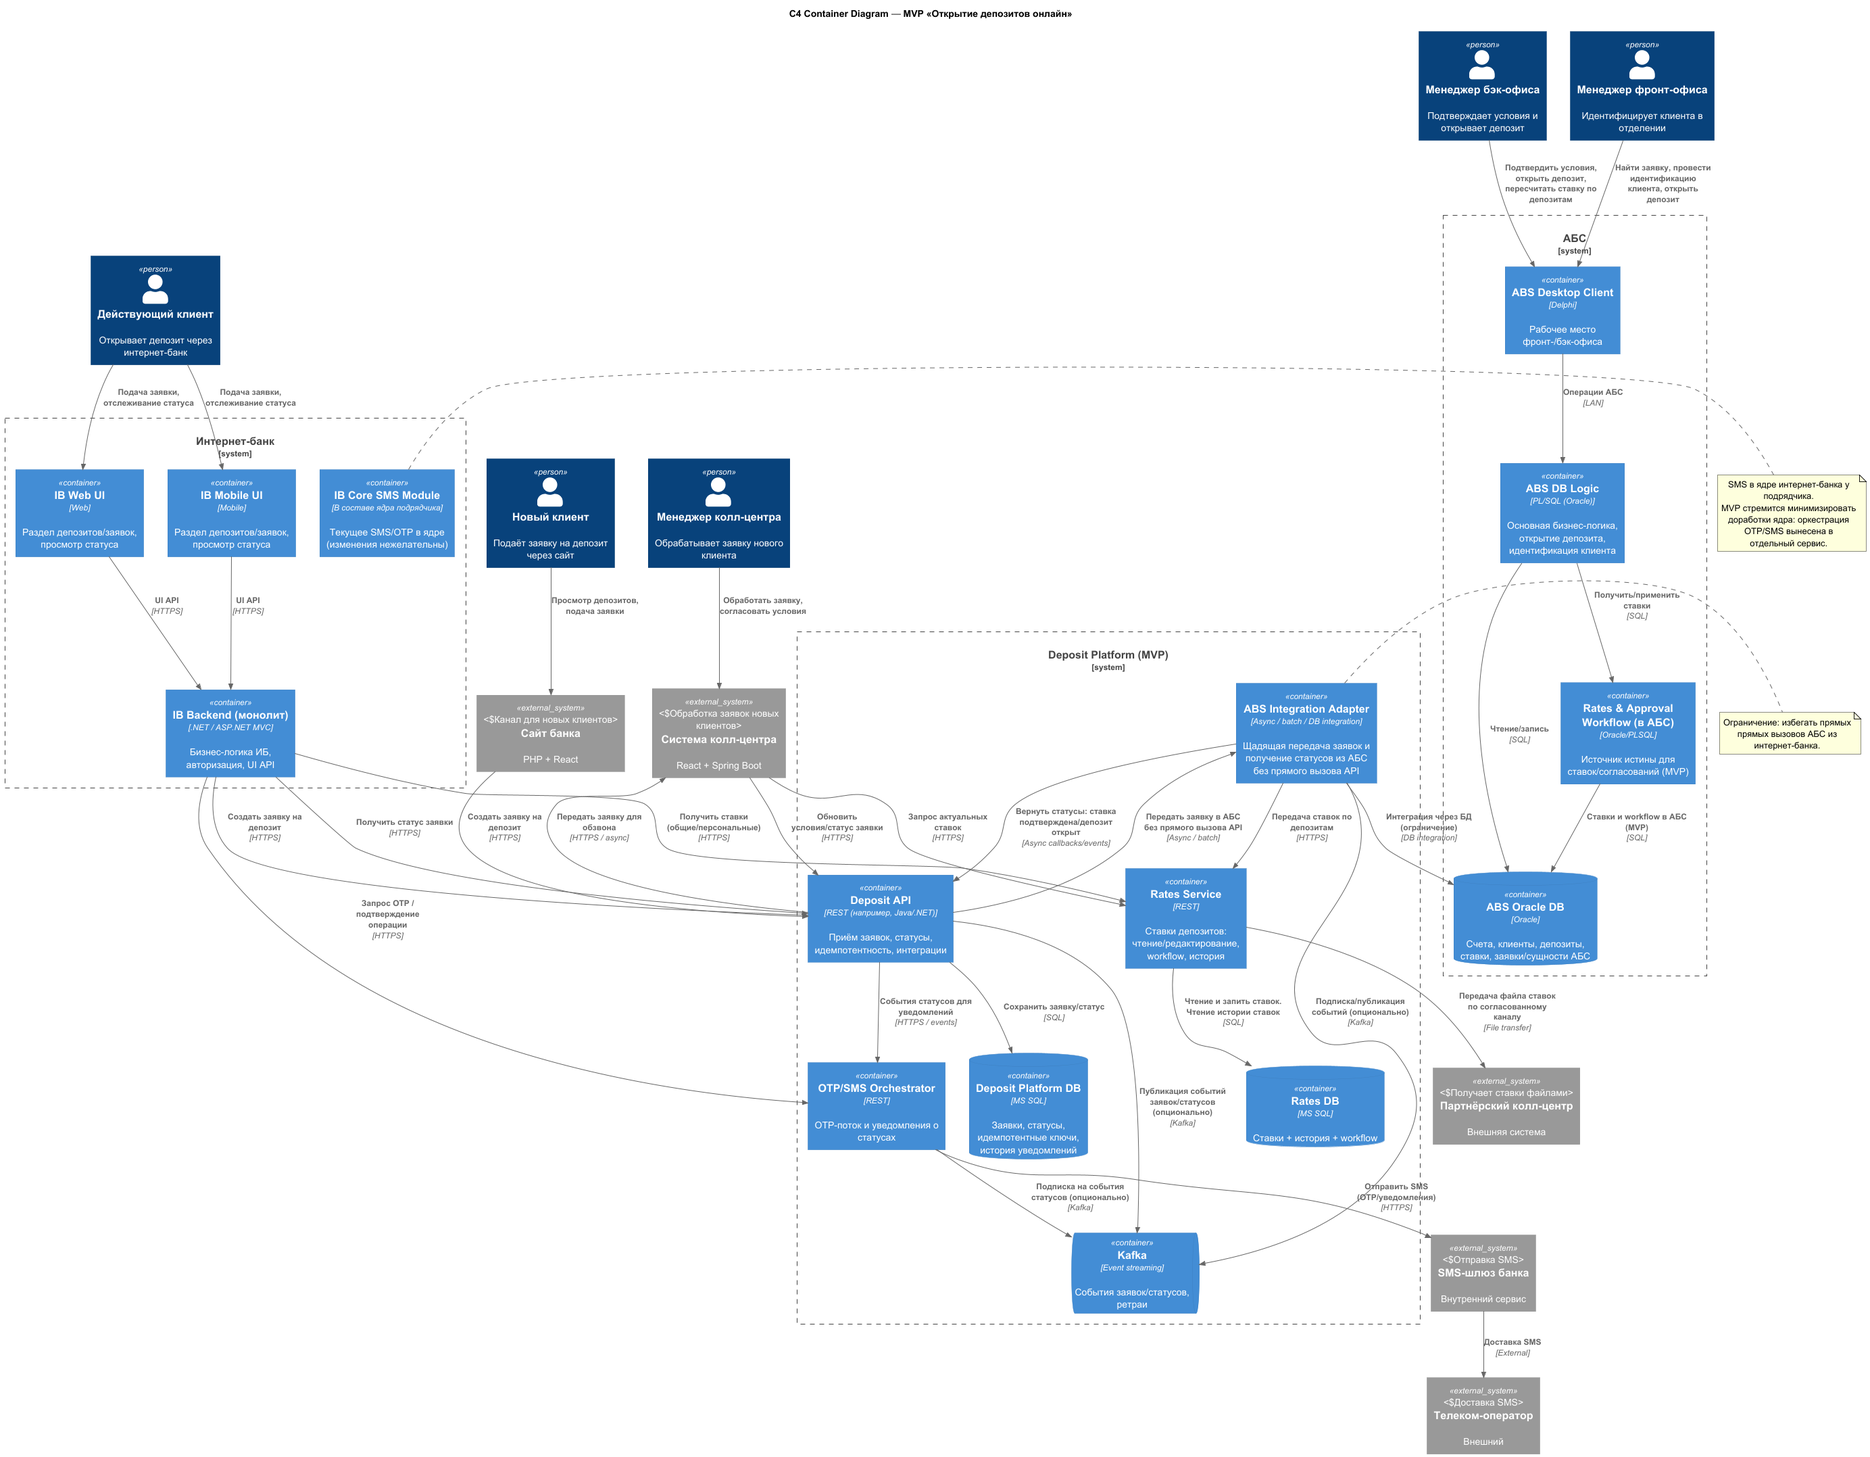
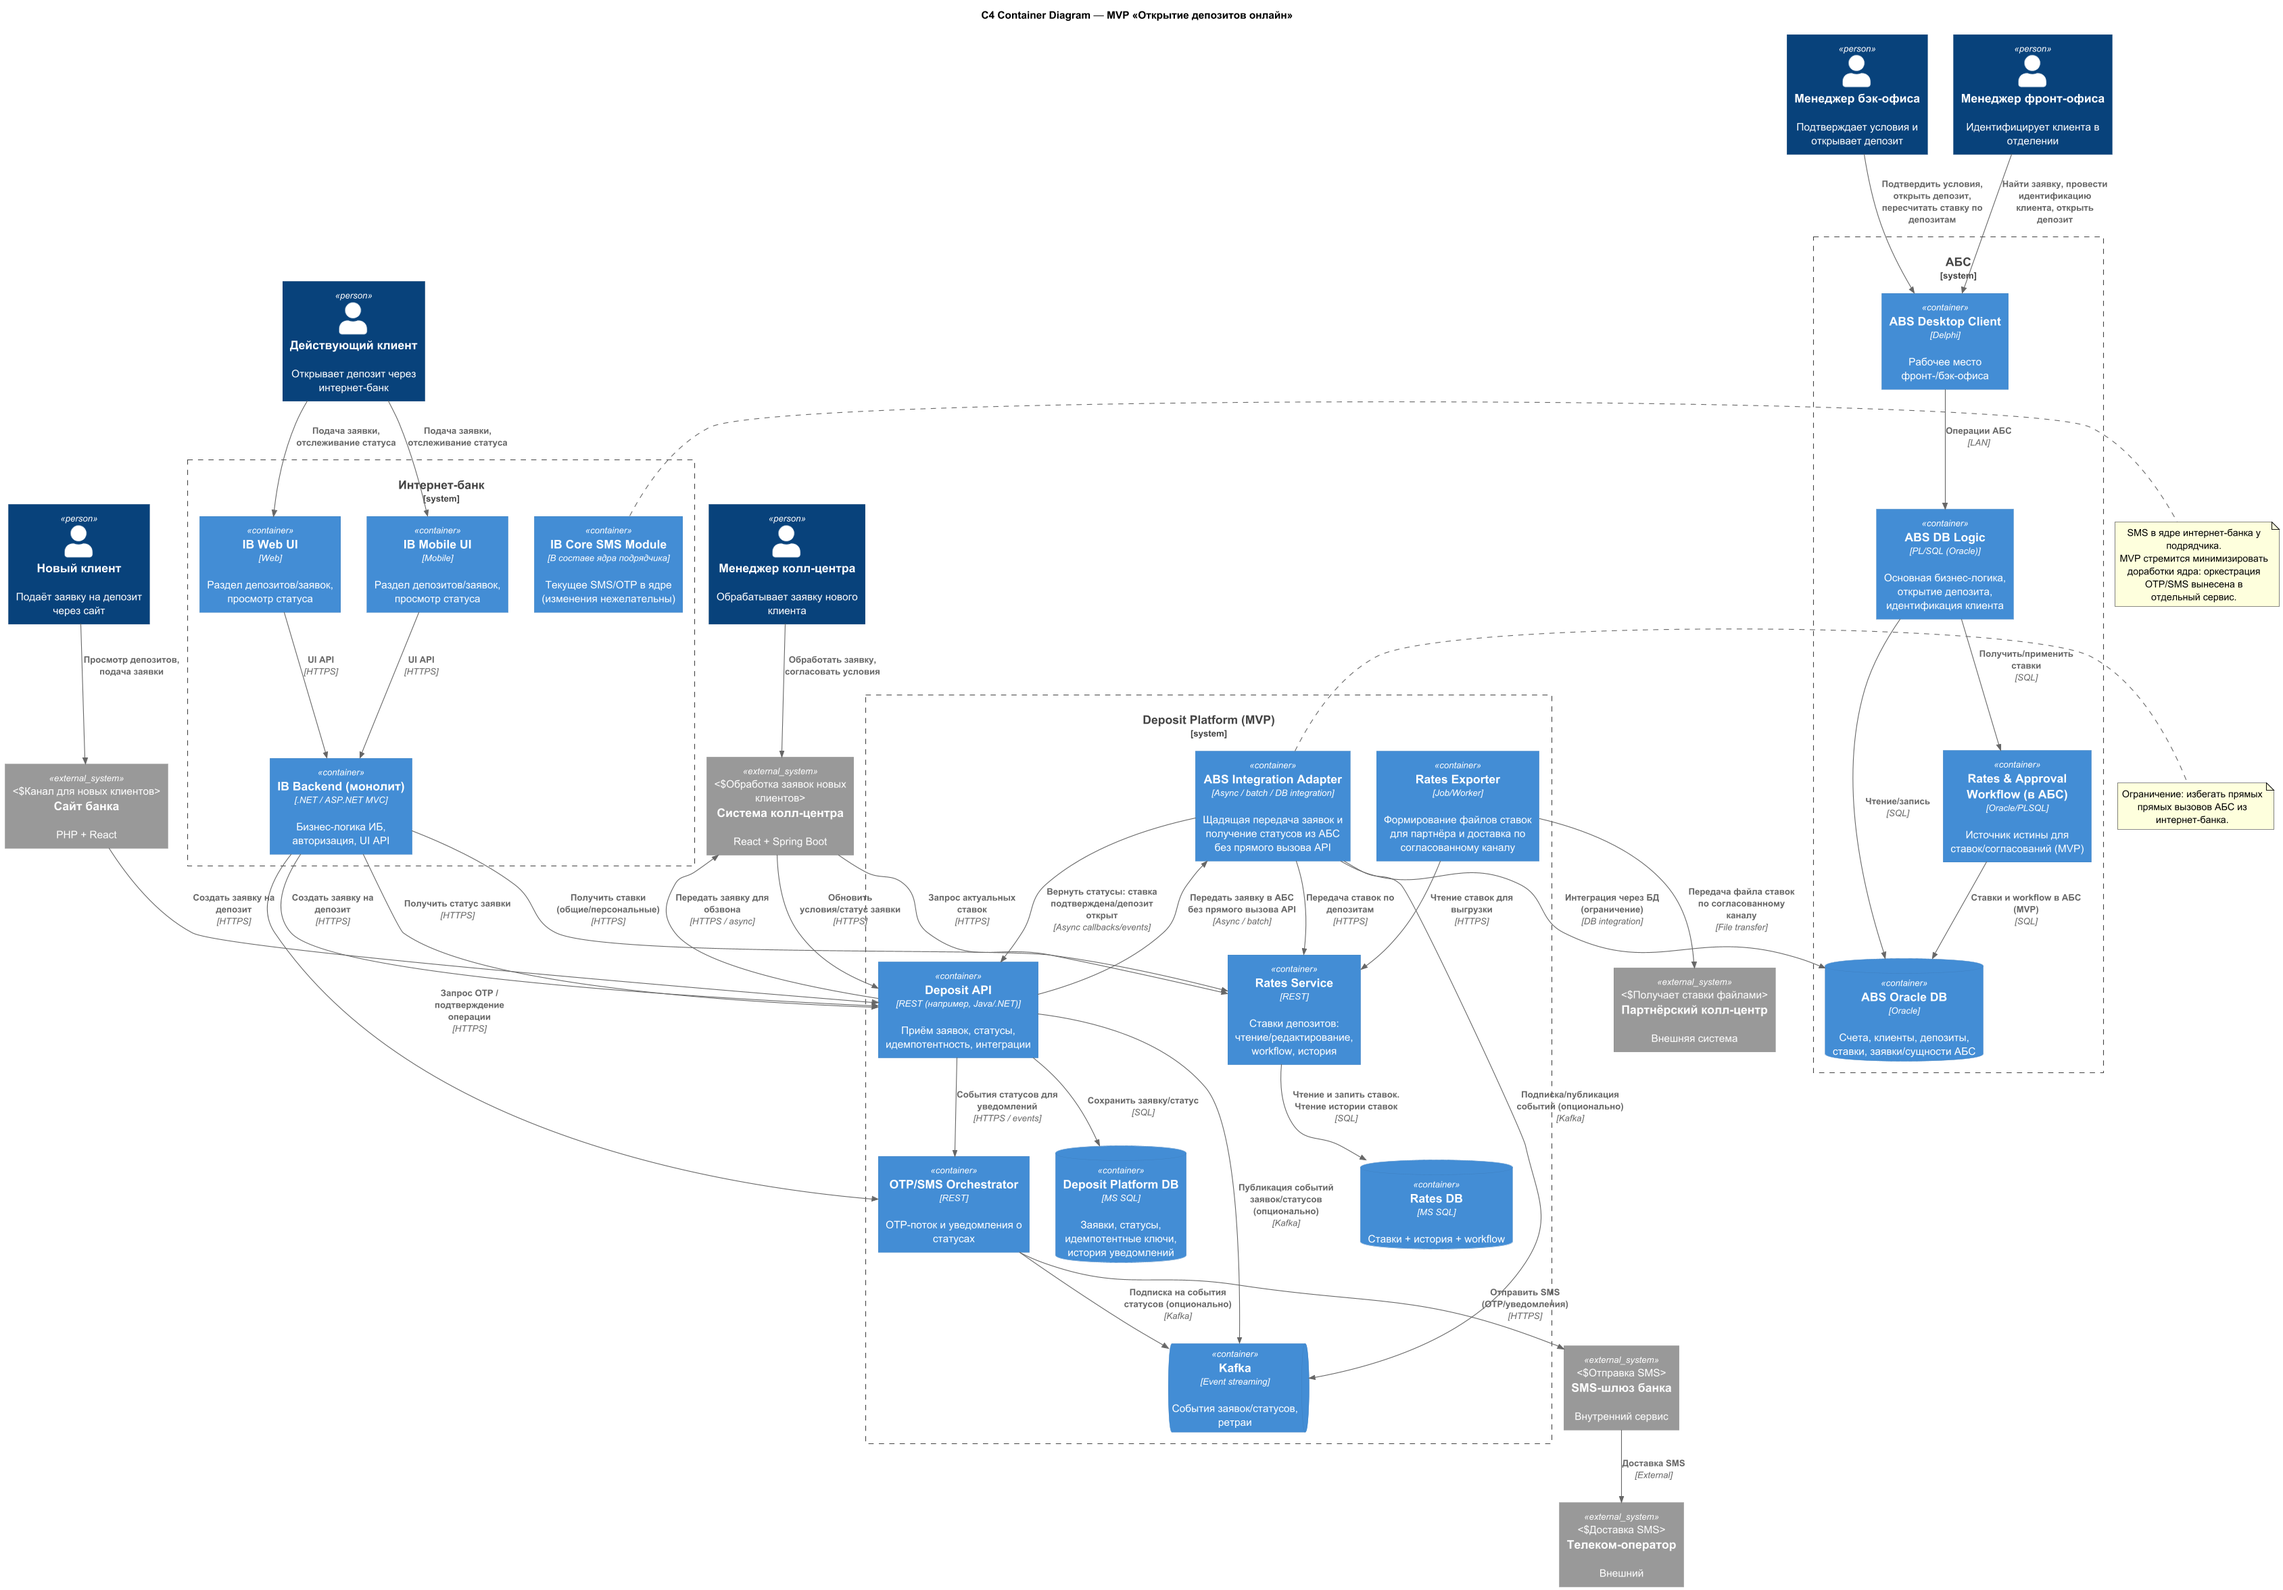
Task4: Add RoadMap. Fix container diagram.

diff --git a/Task4/tasks.md b/Task4/tasks.md
@@ -1,0 +1,128 @@
+# Крупные задачи для планирования (по ADR001 и ADR002)
+
+---
+
+### MVP «Открытие депозитов онлайн»
+
+---
+
+## Интернет-банк
+
+- Реализация UI раздела депозитов
+    - список депозитов и ставок (общие / персональные)
+    - экран создания заявки
+    - экран статуса заявки
+- Интеграция с Deposit Platform
+    - создание заявки
+    - получение статусов    - обработка ошибок
+- Интеграция OTP-подтверждения
+    - вызов OTP/SMS оркестратора
+    - подтверждение / отказ операции
+- Обработка деградаций
+    - недоступность OTP
+    - недоступность Deposit Platform
+- Минимизация доработок ядра интернет-банка подрядчика
+
+---
+
+## Сайт банка
+
+- Реализация страницы депозитов для новых клиентов
+- Реализация формы подачи заявки (ФИО + телефон)
+- Интеграция с Deposit Platform
+- Отображение подтверждения принятия заявки
+- Обработка ошибок и повторной отправки заявки
+
+---
+
+## Deposit Platform (новый контур)
+
+### Deposit API / Application Service
+- Проектирование модели заявки и статусов
+- Реализация API создания заявки (идемпотентность)
+- Реализация API получения статуса заявки
+- Хранение заявок и истории изменений
+- Логирование, метрики, алертинг
+
+### Интеграция с АБС
+- Реализация ABS Integration Adapter
+- Асинхронная передача заявок в АБС
+- Получение статусов из АБС
+- Реализация ретраев и компенсаций
+- Защита АБС от online-нагрузки
+
+### OTP / SMS оркестратор
+- Реализация OTP-потока
+- Интеграция с SMS-шлюзом банка
+- Уведомления клиента о статусах заявки
+- Ретраи и контроль доставки SMS
+
+---
+
+## АБС
+
+- Приём онлайн-заявок через интеграционный слой
+- Обработка заявок бэк-офисом депозитов
+- Подтверждение условий депозита
+- Открытие депозита
+- Поддержка идентификации в отделении
+- Предоставление утверждённых ставок как источника истины
+
+---
+
+## Система колл-центра банка
+
+- Приём заявок новых клиентов
+- Отображение информации по заявке
+- Консультация клиента и фиксация условий
+- Интеграция с Rates API для просмотра ставок
+
+---
+
+### Передача ставок в колл-центры
+
+---
+
+## Rates Service / Rates API
+
+- Проектирование read-модели ставок
+- Реализация API чтения общих ставок
+- Хранение истории и версий ставок
+- Контроль актуальности данных (SLA)
+- Мониторинг актуальности ставок
+- Синхронизация ставок из АБС
+- Обновление read-модели ставок
+- Контроль ошибок синхронизации
+- Логирование и алертинг
+
+---
+
+## Система колл-центра банка (внутренняя)
+
+- Интеграция с Rates API
+- Отображение актуальных ставок в UI операторов
+- Обновление сценариев консультации
+- Fallback-логика при недоступности сервиса ставок
+
+---
+
+## Rates Exporter (Deposit Platform)
+
+- Проектирование формата файла ставок
+- Генерация файлов ставок
+- Доставка файлов партнёрскому колл-центру
+    - без API
+    - без SFTP
+    - через согласованный файловый канал
+- Контроль успешности передачи
+- Ретраи и алертинг при сбоях
+
+---
+
+## Партнёрский колл-центр (со стороны банка)
+
+- Согласование формата файла
+- Согласование канала передачи
+- Согласование периодичности обновлений
+- Процедура подтверждения получения файла
+- Операционные инструкции и SLA
